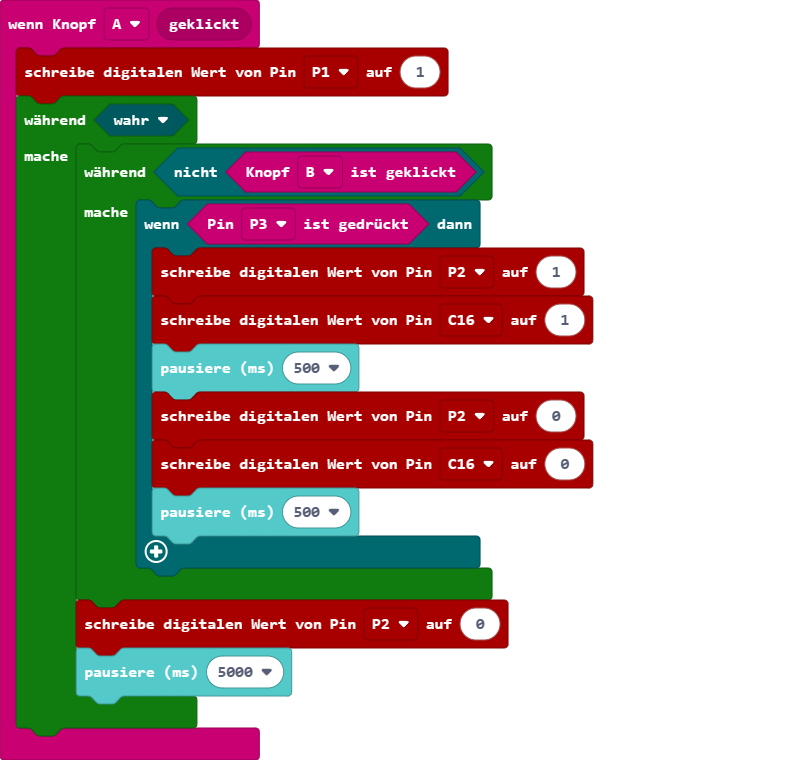
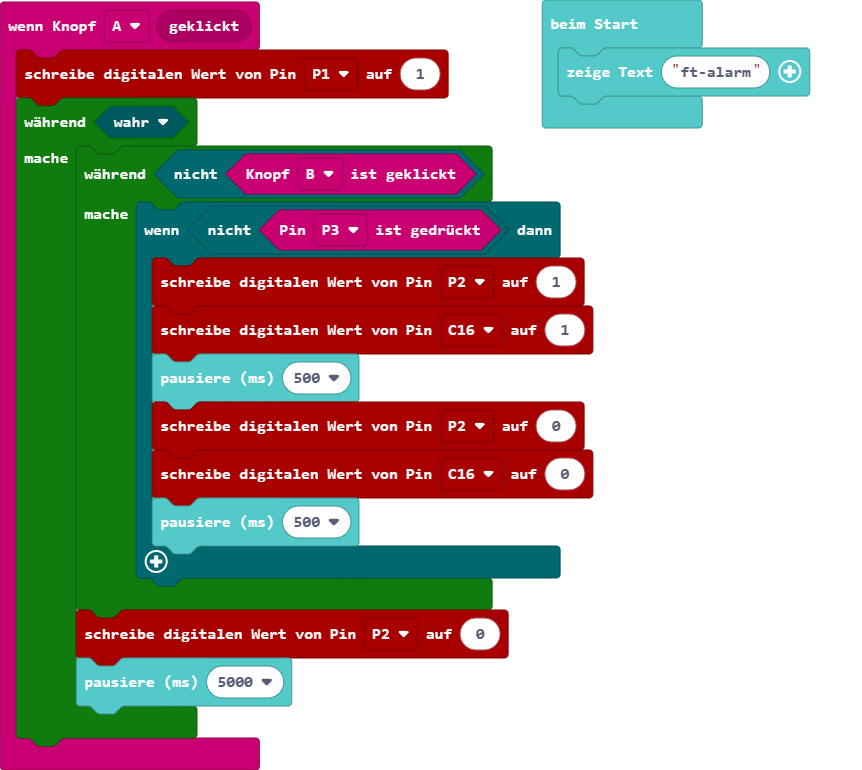
Aktualisiere main.blocks, main.ts

Changed region(s): [[0.0, 0.0, 0.7491, 1.0], [0.6242, 0.0, 0.9675, 0.1816], [0.0624, 0.9382, 0.0936, 0.9684]]

diff --git a/main.ts b/main.ts
@@ -2,7 +2,7 @@ input.onButtonEvent(Button.A, input.buttonEventClick(), function () {
     pins.digitalWritePin(DigitalPin.P1, 1)
     while (true) {
         while (!(input.buttonIsPressed(Button.B))) {
-            if (input.pinIsPressed(TouchPin.P3)) {
+            if (!(input.pinIsPressed(TouchPin.P3))) {
                 pins.digitalWritePin(DigitalPin.P2, 1)
                 pins.digitalWritePin(DigitalPin.C16, 1)
                 basic.pause(500)
@@ -15,3 +15,4 @@ input.onButtonEvent(Button.A, input.buttonEventClick(), function () {
         basic.pause(5000)
     }
 })
+basic.showString("ft-alarm")
